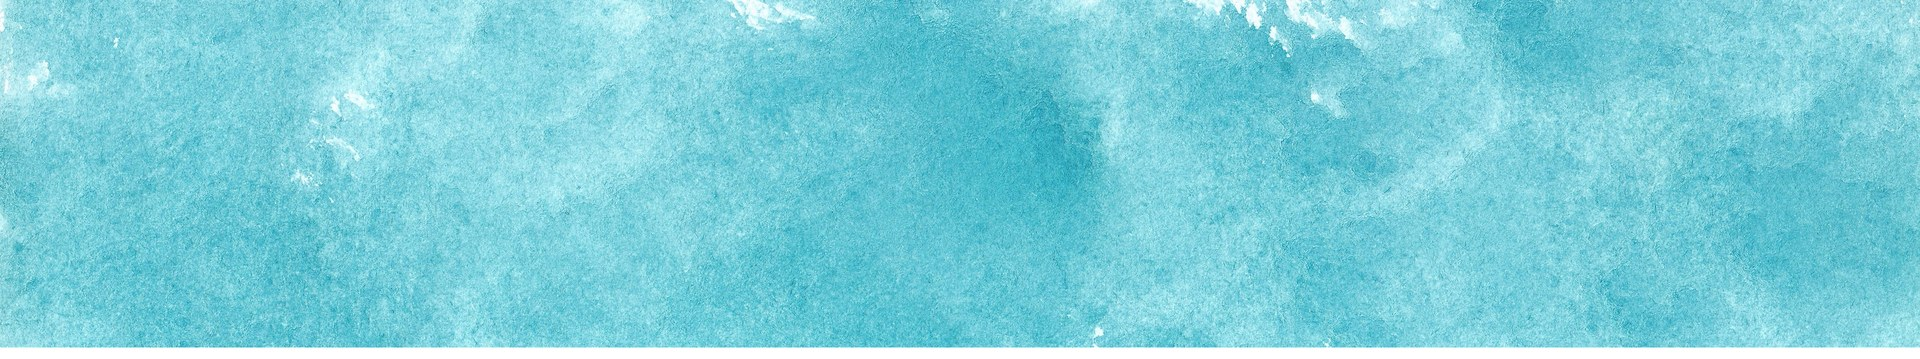
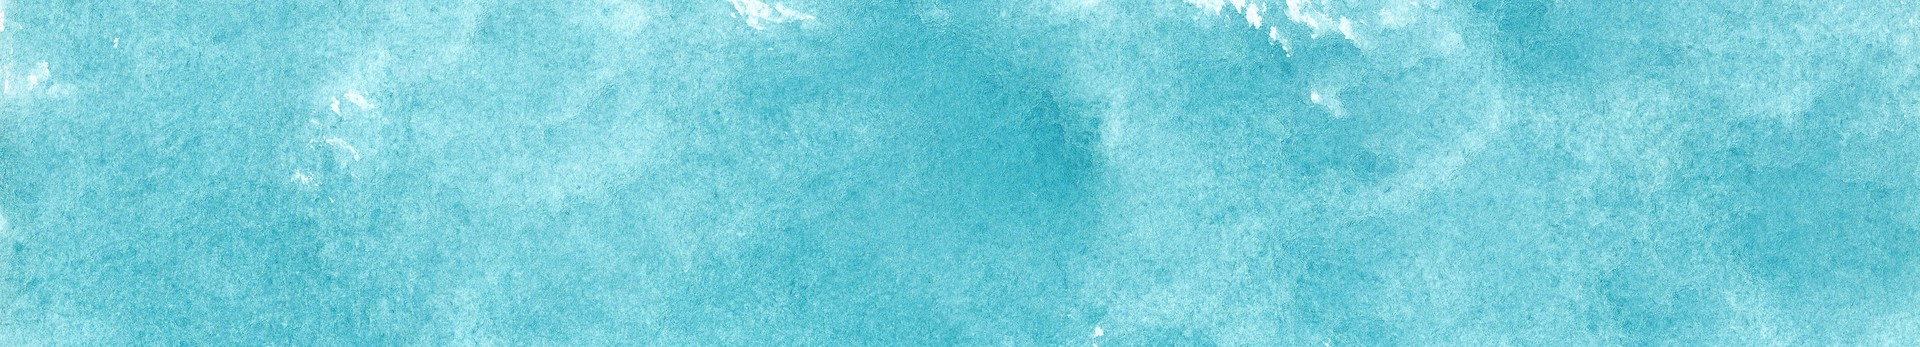
hero: full watercolor band, lighter overlay, sharper texture

Changed region(s): [[0.0, 0.0576, 1.0, 1.0], [0.2188, 0.2017, 0.25, 0.2305]]

diff --git a/src/styles/global.css b/src/styles/global.css
@@ -80,7 +80,7 @@ nav a:hover:after{right:0}
 /* full-bleed hero: image as section-wide background */
 .hero-full{
   width:100vw;margin-left:calc(50% - 50vw);
-  min-height:66vh;display:flex;align-items:center;
+  min-height:46vh;display:flex;align-items:center;
   position:relative;
   background-size:cover;background-position:center;background-repeat:no-repeat;
   background-color:var(--blue);
@@ -88,7 +88,7 @@ nav a:hover:after{right:0}
 }
 .hero-full:before{
   content:"";position:absolute;inset:0;
-  background:linear-gradient(100deg,rgba(247,249,252,.55) 0%,rgba(247,249,252,.16) 45%,rgba(247,249,252,0) 78%)
+  background:linear-gradient(100deg,rgba(247,249,252,.38) 0%,rgba(247,249,252,.10) 42%,rgba(247,249,252,0) 70%)
 }
 .hero-full .hero-inner{
   position:relative;width:min(1680px,calc(100% - 64px));margin-inline:auto;
@@ -375,7 +375,7 @@ html[lang=zh-CN] .bio{line-height:1.85}
   .header-inner{padding:20px 0}
   nav{gap:16px;font-size:12px}
   .hero{min-height:auto;padding:70px 0}
-  .hero-full{min-height:68vh;padding:0}
+  .hero-full{min-height:50vh;padding:0}
   .hero-full .hero-inner{padding:56px 0}
   .hero-full .art-caption{font-size:11px;letter-spacing:.14em}
   .hero-full .art-caption.right{top:24px;bottom:auto}
